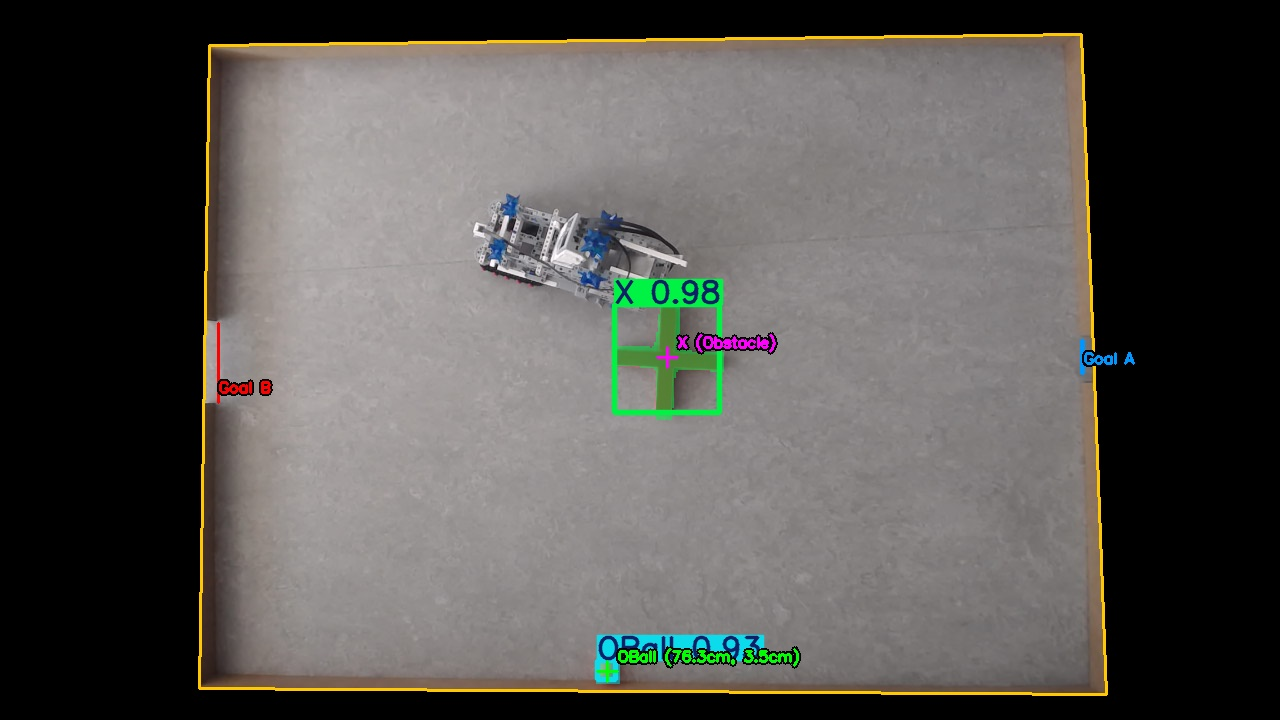
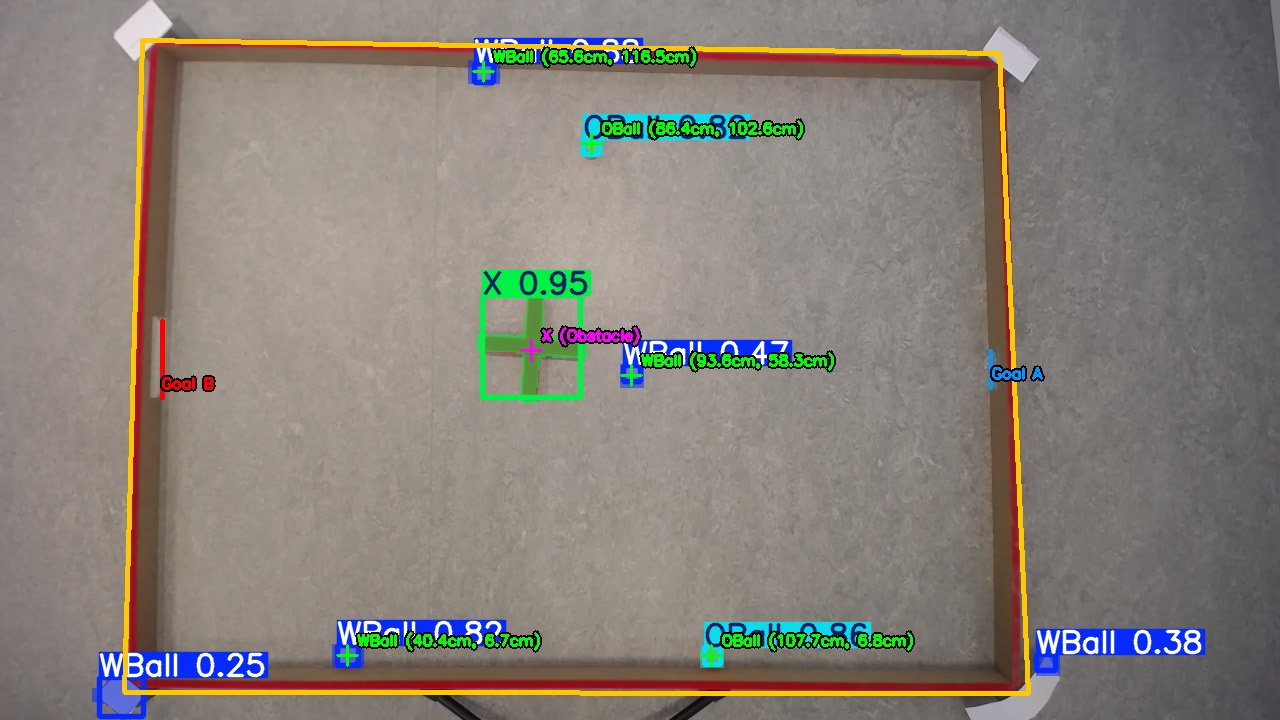
Changes

diff --git a/image_recon/YOLO_controller.py b/image_recon/YOLO_controller.py
@@ -10,37 +10,82 @@ CAMERA_INDEX = 0
 ARENA_W_CM = 167.0
 ARENA_H_CM = 121.5
 
-# Global variables for setup
+# --- THE MAGIC OFFSETS ---
+# Since color detection might lock onto the outside edge or center of the red wood,
+# use these to push the true (0,0) coordinate grid inward to the playing surface.
+OFFSET_X_CM = 1.5  # cm inward 
+OFFSET_Y_CM = 1.5  # cm inward 
+
+# Global variables
 corners = []
 goal_a_pts = []
 goal_b_pts = []
-setup_step = "CORNERS"  # States: CORNERS, GOAL_A, GOAL_B, DONE
+setup_step = "FIND_ARENA"  # States: FIND_ARENA, GOAL_A, GOAL_B, DONE
 
-# --- ARUCO MARKER SETUP ---
-# Handling OpenCV version differences for ArUco
-try:
-    ARUCO_DICT = cv2.aruco.Dictionary_get(cv2.aruco.DICT_4X4_50)
-    ARUCO_PARAMS = cv2.aruco.DetectorParameters_create()
-    def detect_markers(frame):
-        return cv2.aruco.detectMarkers(frame, ARUCO_DICT, parameters=ARUCO_PARAMS)
-except AttributeError:
-    # For OpenCV 4.7+
-    ARUCO_DICT = cv2.aruco.getPredefinedDictionary(cv2.aruco.DICT_4X4_50)
-    ARUCO_PARAMS = cv2.aruco.DetectorParameters()
-    ARUCO_DETECTOR = cv2.aruco.ArucoDetector(ARUCO_DICT, ARUCO_PARAMS)
-    def detect_markers(frame):
-        return ARUCO_DETECTOR.detectMarkers(frame)
-
-# Helper function for highly visible text
+# --- HELPER FUNCTIONS ---
 def draw_text_with_outline(img, text, pos, font_scale, color, thickness):
     cv2.putText(img, text, pos, cv2.FONT_HERSHEY_SIMPLEX, font_scale, (0, 0, 0), thickness + 3)
     cv2.putText(img, text, pos, cv2.FONT_HERSHEY_SIMPLEX, font_scale, color, thickness)
+
+def order_points(pts):
+    """Sorts corners into: Top-Left, Top-Right, Bottom-Right, Bottom-Left."""
+    rect = np.zeros((4, 2), dtype="float32")
+    s = pts.sum(axis=1)
+    rect[0] = pts[np.argmin(s)] # Top-Left
+    rect[2] = pts[np.argmax(s)] # Bottom-Right
+    diff = np.diff(pts, axis=1)
+    rect[1] = pts[np.argmin(diff)] # Top-Right
+    rect[3] = pts[np.argmax(diff)] # Bottom-Left
+    return rect
+
+def find_red_arena(frame):
+    """Finds the largest 4-point red polygon in the frame."""
+    hsv = cv2.cvtColor(frame, cv2.COLOR_BGR2HSV)
+    
+    # Red wraps around the HSV hue cylinder, so we need two masks
+    lower_red1 = np.array([0, 100, 100])
+    upper_red1 = np.array([10, 255, 255])
+    lower_red2 = np.array([160, 100, 100])
+    upper_red2 = np.array([180, 255, 255])
+    
+    mask1 = cv2.inRange(hsv, lower_red1, upper_red1)
+    mask2 = cv2.inRange(hsv, lower_red2, upper_red2)
+    mask = cv2.bitwise_or(mask1, mask2)
+    
+    # Clean up the mask (remove small noise)
+    kernel = np.ones((5,5), np.uint8)
+    mask = cv2.morphologyEx(mask, cv2.MORPH_OPEN, kernel)
+    mask = cv2.morphologyEx(mask, cv2.MORPH_CLOSE, kernel)
+
+    # Find contours
+    contours, _ = cv2.findContours(mask, cv2.RETR_EXTERNAL, cv2.CHAIN_APPROX_SIMPLE)
+    
+    if contours:
+        # Get the largest contour by area
+        largest_contour = max(contours, key=cv2.contourArea)
+        
+        # Only proceed if it's reasonably large
+        if cv2.contourArea(largest_contour) > 10000:
+            # Approximate the contour to a polygon
+            peri = cv2.arcLength(largest_contour, True)
+            approx = cv2.approxPolyDP(largest_contour, 0.02 * peri, True)
+            
+            # If the polygon has 4 corners, we found the rectangular arena!
+            if len(approx) == 4:
+                pts = approx.reshape(4, 2)
+                # Ensure they are in the correct order for the perspective transform
+                ordered_pts = order_points(pts)
+                
+                # YOLO uses BL, BR, TR, TL mapping internally in our get_perspective_transform
+                tl, tr, br, bl = ordered_pts
+                return [tuple(bl), tuple(br), tuple(tr), tuple(tl)]
+                
+    return None
 
 def handle_mouse(event, x, y, flags, param):
     global goal_a_pts, goal_b_pts, setup_step
     
     if event == cv2.EVENT_LBUTTONDOWN:
-        # We no longer click corners, so we only listen for Goal clicks
         if setup_step == "GOAL_A":
             if len(goal_a_pts) < 2:
                 goal_a_pts.append((x, y))
@@ -62,7 +107,7 @@ def setup_arena(cap):
     corners.clear()
     goal_a_pts.clear()
     goal_b_pts.clear()
-    setup_step = "CORNERS"
+    setup_step = "FIND_ARENA"
 
     print("\n--- ARENA SETUP ---")
     print("Warming up camera...")
@@ -74,63 +119,55 @@ def setup_arena(cap):
     cv2.resizeWindow(window, 1280, 720)
     cv2.setMouseCallback(window, handle_mouse)
 
-    print("Step 1: Scanning for ArUco Markers 0, 1, 2, and 3...")
+    print("Step 1: Auto-detecting red borders...")
 
     while True:
         ret, frame = cap.read()
         if not ret: continue
         display = frame.copy()
 
-        if setup_step == "CORNERS":
-            draw_text_with_outline(display, "1. Scanning for ArUco Markers (0, 1, 2, 3)...", 
+        if setup_step == "FIND_ARENA":
+            draw_text_with_outline(display, "1. Auto-detecting Red Arena borders...", 
                                    (20, 40), 0.7, (0, 255, 255), 2)
             
-            # Run ArUco Detection
-            corners_detected, ids, rejected = detect_markers(frame)
+            detected_corners = find_red_arena(frame)
             
-            if ids is not None:
-                cv2.aruco.drawDetectedMarkers(display, corners_detected, ids)
-                ids = ids.flatten()
-                
-                # Check if all 4 required markers are visible
-                if all(req_id in ids for req_id in [0, 1, 2, 3]):
-                    marker_centers = {}
-                    # Calculate the center of each marker
-                    for i, marker_id in enumerate(ids):
-                        if marker_id in [0, 1, 2, 3]:
-                            c = corners_detected[i][0]
-                            cx = int(c[:, 0].mean())
-                            cy = int(c[:, 1].mean())
-                            marker_centers[marker_id] = (cx, cy)
-                            
-                    # Lock them into the corners array in the strict geometric order
-                    corners.clear()
-                    corners.append(marker_centers[0]) # Bottom-Left
-                    corners.append(marker_centers[1]) # Bottom-Right
-                    corners.append(marker_centers[2]) # Top-Right
-                    corners.append(marker_centers[3]) # Top-Left
+            if detected_corners:
+                corners = detected_corners
+                pts = np.array(corners, dtype=np.int32)
+                cv2.polylines(display, [pts], isClosed=True, color=(0, 255, 255), thickness=3)
+                for i, (px, py) in enumerate(corners):
+                    cv2.circle(display, (int(px), int(py)), 7, (0, 255, 0), -1)
                     
-                    print("\n✓ All 4 ArUco markers locked automatically!")
-                    setup_step = "GOAL_A"
+                draw_text_with_outline(display, "Arena Found! Press ENTER to lock, or adjust lighting.", 
+                                       (20, 80), 0.7, (0, 255, 0), 2)
+            else:
+                corners.clear()
+                draw_text_with_outline(display, "No 4-corner red shape found. Ensure borders are visible.", 
+                                       (20, 80), 0.7, (0, 0, 255), 2)
 
         elif setup_step == "GOAL_A":
             draw_text_with_outline(display, f"2. GOAL A (Right, Small) - Click Top-Left then Bottom-Right: {len(goal_a_pts)}/2", 
                                    (20, 40), 0.7, (255, 150, 0), 2)
+            if len(corners) == 4:
+                pts = np.array(corners, dtype=np.int32)
+                cv2.polylines(display, [pts], isClosed=True, color=(0, 255, 0), thickness=2)
+
         elif setup_step == "GOAL_B":
             draw_text_with_outline(display, f"3. GOAL B (Left, Large) - Click Top-Left then Bottom-Right: {len(goal_b_pts)}/2", 
                                    (20, 40), 0.7, (0, 0, 255), 2)
+            if len(corners) == 4:
+                pts = np.array(corners, dtype=np.int32)
+                cv2.polylines(display, [pts], isClosed=True, color=(0, 255, 0), thickness=2)
+
         elif setup_step == "DONE":
             draw_text_with_outline(display, "Setup Complete! Press ENTER to start | 'R' to reset", 
                                    (20, 40), 0.7, (0, 255, 0), 2)
+            if len(corners) == 4:
+                pts = np.array(corners, dtype=np.int32)
+                cv2.polylines(display, [pts], isClosed=True, color=(0, 255, 0), thickness=2)
 
-        # Draw the locked Arena Polygon once found
-        if len(corners) == 4:
-            for i, (px, py) in enumerate(corners):
-                cv2.circle(display, (px, py), 7, (0, 255, 0), -1)
-            pts = np.array(corners, dtype=np.int32)
-            cv2.polylines(display, [pts], isClosed=True, color=(0, 255, 0), thickness=2)
-
-        # Draw Goals
+        # Draw Goals during setup
         if len(goal_a_pts) >= 1:
             cv2.circle(display, goal_a_pts[0], 5, (255, 150, 0), -1)
         if len(goal_a_pts) == 2:
@@ -150,10 +187,14 @@ def setup_arena(cap):
             corners.clear()
             goal_a_pts.clear()
             goal_b_pts.clear()
-            setup_step = "CORNERS"
-            print("\n--- Setup Reset: Show the 4 markers to the camera ---")
-        elif key == 13 and setup_step == "DONE":
-            break
+            setup_step = "FIND_ARENA"
+            print("\n--- Setup Reset: Scanning for red borders ---")
+        elif key == 13: # ENTER
+            if setup_step == "FIND_ARENA" and len(corners) == 4:
+                setup_step = "GOAL_A"
+                print("\n✓ Arena Locked!")
+            elif setup_step == "DONE":
+                break
         elif key == ord('q'):
             cv2.destroyWindow(window)
             return False
@@ -163,25 +204,28 @@ def setup_arena(cap):
 
 def get_perspective_transform():
     src = np.array(corners, dtype=np.float32)
+    
+    # We apply the physical offset to pull the 0,0 coordinate inward
     dst = np.array([
-        [0,          0         ],   # ID 0 -> (0, 0)
-        [ARENA_W_CM, 0         ],   # ID 1 -> (167, 0)
-        [ARENA_W_CM, ARENA_H_CM],   # ID 2 -> (167, 121.5)
-        [0,          ARENA_H_CM],   # ID 3 -> (0, 121.5)
+        [OFFSET_X_CM,              OFFSET_Y_CM             ],   # Bottom-Left
+        [ARENA_W_CM - OFFSET_X_CM, OFFSET_Y_CM             ],   # Bottom-Right
+        [ARENA_W_CM - OFFSET_X_CM, ARENA_H_CM - OFFSET_Y_CM],   # Top-Right
+        [OFFSET_X_CM,              ARENA_H_CM - OFFSET_Y_CM],   # Top-Left
     ], dtype=np.float32)
+    
     M = cv2.getPerspectiveTransform(src, dst)
-    return M
+    M_inv = cv2.getPerspectiveTransform(dst, src)
+    return M, M_inv
 
 def point_in_arena(x, y):
-    if len(corners) < 4: return True
-    poly = np.array(corners, dtype=np.int32)
-    return cv2.pointPolygonTest(poly, (float(x), float(y)), False) >= 0
+    # YOLO scans the whole screen, coordinates are filtered later
+    return True
 
 def to_arena_coords(x, y, M):
     pt = np.array([[[float(x), float(y)]]], dtype=np.float32)
     transformed = cv2.perspectiveTransform(pt, M)
     ax, ay = transformed[0][0]
-    return round(float(np.clip(ax, 0, ARENA_W_CM)), 1), round(float(np.clip(ay, 0, ARENA_H_CM)), 1)
+    return round(float(ax), 1), round(float(ay), 1)
 
 def get_yolo_detections(results, model, M):
     detections = []
@@ -199,10 +243,11 @@ def get_yolo_detections(results, model, M):
                 cx = int((x1 + x2) / 2)
                 cy = int((y1 + y2) / 2)
 
-            if not point_in_arena(cx, cy):
-                continue
-                
             ax, ay = to_arena_coords(cx, cy, M)
+            
+            # Filter out things physically outside the true 0 to Width boundaries
+            if ax < 0 or ax > ARENA_W_CM or ay < 0 or ay > ARENA_H_CM:
+                continue
             
             x1, y1, x2, y2 = results.boxes[i].xyxy[0].tolist()
             tl = to_arena_coords(x1, y1, M)
@@ -218,11 +263,23 @@ def get_yolo_detections(results, model, M):
             })
     return detections
 
-def draw_arena_overlay(vis_frame):
+def draw_arena_overlay(vis_frame, M_inv):
     if len(corners) == 4:
-        pts = np.array(corners, dtype=np.int32)
-        cv2.polylines(vis_frame, [pts], isClosed=True, color=(0, 200, 255), thickness=2)
-    
+        # Define the 4 corners of the TRUE physical arena in CM
+        true_corners_cm = np.array([
+            [[0.0, 0.0]],                           # Bottom-Left
+            [[ARENA_W_CM, 0.0]],                    # Bottom-Right
+            [[ARENA_W_CM, ARENA_H_CM]],             # Top-Right
+            [[0.0, ARENA_H_CM]]                     # Top-Left
+        ], dtype=np.float32)
+        
+        # Convert the true CM corners back to pixel locations on the screen
+        true_corners_px = cv2.perspectiveTransform(true_corners_cm, M_inv)
+        pts = np.int32(true_corners_px)
+        
+        # Draw the inner boundary line
+        cv2.polylines(vis_frame, [pts], isClosed=True, color=(0, 200, 255), thickness=3)
+
     if len(goal_a_pts) == 2:
         cv2.rectangle(vis_frame, goal_a_pts[0], goal_a_pts[1], (255, 150, 0), 2)
         draw_text_with_outline(vis_frame, "Goal A", (goal_a_pts[0][0], goal_a_pts[0][1] - 10), 0.5, (255, 150, 0), 2)
@@ -265,7 +322,7 @@ def main():
         cap.release()
         return
 
-    M = get_perspective_transform()
+    M, M_inv = get_perspective_transform()
     print(f"\nArena locked: {ARENA_W_CM} x {ARENA_H_CM} cm (Bottom-Left is 0x0)")
     
     window_name = "Live Preview"
@@ -279,7 +336,7 @@ def main():
         if not ret: break
 
         preview_frame = frame.copy()
-        preview_frame = draw_arena_overlay(preview_frame)
+        preview_frame = draw_arena_overlay(preview_frame, M_inv)
         
         visual_status = "ON" if show_visuals else "OFF"
         draw_text_with_outline(preview_frame, f"'s': SCAN | 'v': VISUALS [{visual_status}] | 'r': RE-DRAW | 'q': QUIT", 
@@ -300,7 +357,7 @@ def main():
             print("\n--- Re-drawing Arena ---")
             cv2.destroyWindow(window_name) 
             if setup_arena(cap):
-                M = get_perspective_transform()
+                M, M_inv = get_perspective_transform()
                 cv2.namedWindow(window_name, cv2.WINDOW_NORMAL)
                 cv2.resizeWindow(window_name, 1280, 720)
             else:
@@ -308,14 +365,8 @@ def main():
                 
         elif key == ord('s'):
             print("\n--- Processing Scan ---")
-            mask = np.zeros(frame.shape[:2], dtype=np.uint8)
             
-            if len(corners) == 4:
-                pts = np.array(corners, dtype=np.int32)
-                cv2.fillPoly(mask, [pts], 255)
-            
-            masked_frame = cv2.bitwise_and(frame, frame, mask=mask)
-            results = model(masked_frame, verbose=False, conf=0.25)[0]
+            results = model(frame, verbose=False, conf=0.25)[0]
             detections = get_yolo_detections(results, model, M)
 
             goal_a_cm = []
@@ -330,15 +381,18 @@ def main():
                     ax, ay = to_arena_coords(pt[0], pt[1], M)
                     goal_b_cm.append({"x": ax, "y": ay})
 
+            true_corners_cm = np.array([[[0.0, 0.0]], [[ARENA_W_CM, 0.0]], [[ARENA_W_CM, ARENA_H_CM]], [[0.0, ARENA_H_CM]]], dtype=np.float32)
+            true_corners_px = cv2.perspectiveTransform(true_corners_cm, M_inv)
+
             robot_data = {
                 "arena": {
                     "width_cm": ARENA_W_CM,
                     "height_cm": ARENA_H_CM,
                     "corners_pixel": [
-                        {"position": "bottom-left", "x": corners[0][0], "y": corners[0][1]},
-                        {"position": "bottom-right", "x": corners[1][0], "y": corners[1][1]},
-                        {"position": "top-right", "x": corners[2][0], "y": corners[2][1]},
-                        {"position": "top-left", "x": corners[3][0], "y": corners[3][1]}
+                        {"position": "bottom-left", "x": round(float(true_corners_px[0][0][0]), 1), "y": round(float(true_corners_px[0][0][1]), 1)},
+                        {"position": "bottom-right", "x": round(float(true_corners_px[1][0][0]), 1), "y": round(float(true_corners_px[1][0][1]), 1)},
+                        {"position": "top-right", "x": round(float(true_corners_px[2][0][0]), 1), "y": round(float(true_corners_px[2][0][1]), 1)},
+                        {"position": "top-left", "x": round(float(true_corners_px[3][0][0]), 1), "y": round(float(true_corners_px[3][0][1]), 1)}
                     ] if len(corners) == 4 else []
                 },
                 "goals": {
@@ -376,7 +430,7 @@ def main():
 
             if show_visuals:
                 vis_frame = results.plot()
-                vis_frame = draw_arena_overlay(vis_frame)
+                vis_frame = draw_arena_overlay(vis_frame, M_inv)
                 vis_frame = draw_positions(vis_frame, detections)
                 cv2.imwrite("image_recon/latest_scan.jpg", vis_frame)
                 
@@ -389,7 +443,7 @@ def main():
                 print("\nResuming preview...")
             else:
                 vis_frame = results.plot()
-                vis_frame = draw_arena_overlay(vis_frame)
+                vis_frame = draw_arena_overlay(vis_frame, M_inv)
                 vis_frame = draw_positions(vis_frame, detections)
                 cv2.imwrite("image_recon/latest_scan_silent.jpg", vis_frame)
                 print("-> Scan complete. (Files saved to 'image_recon')")
